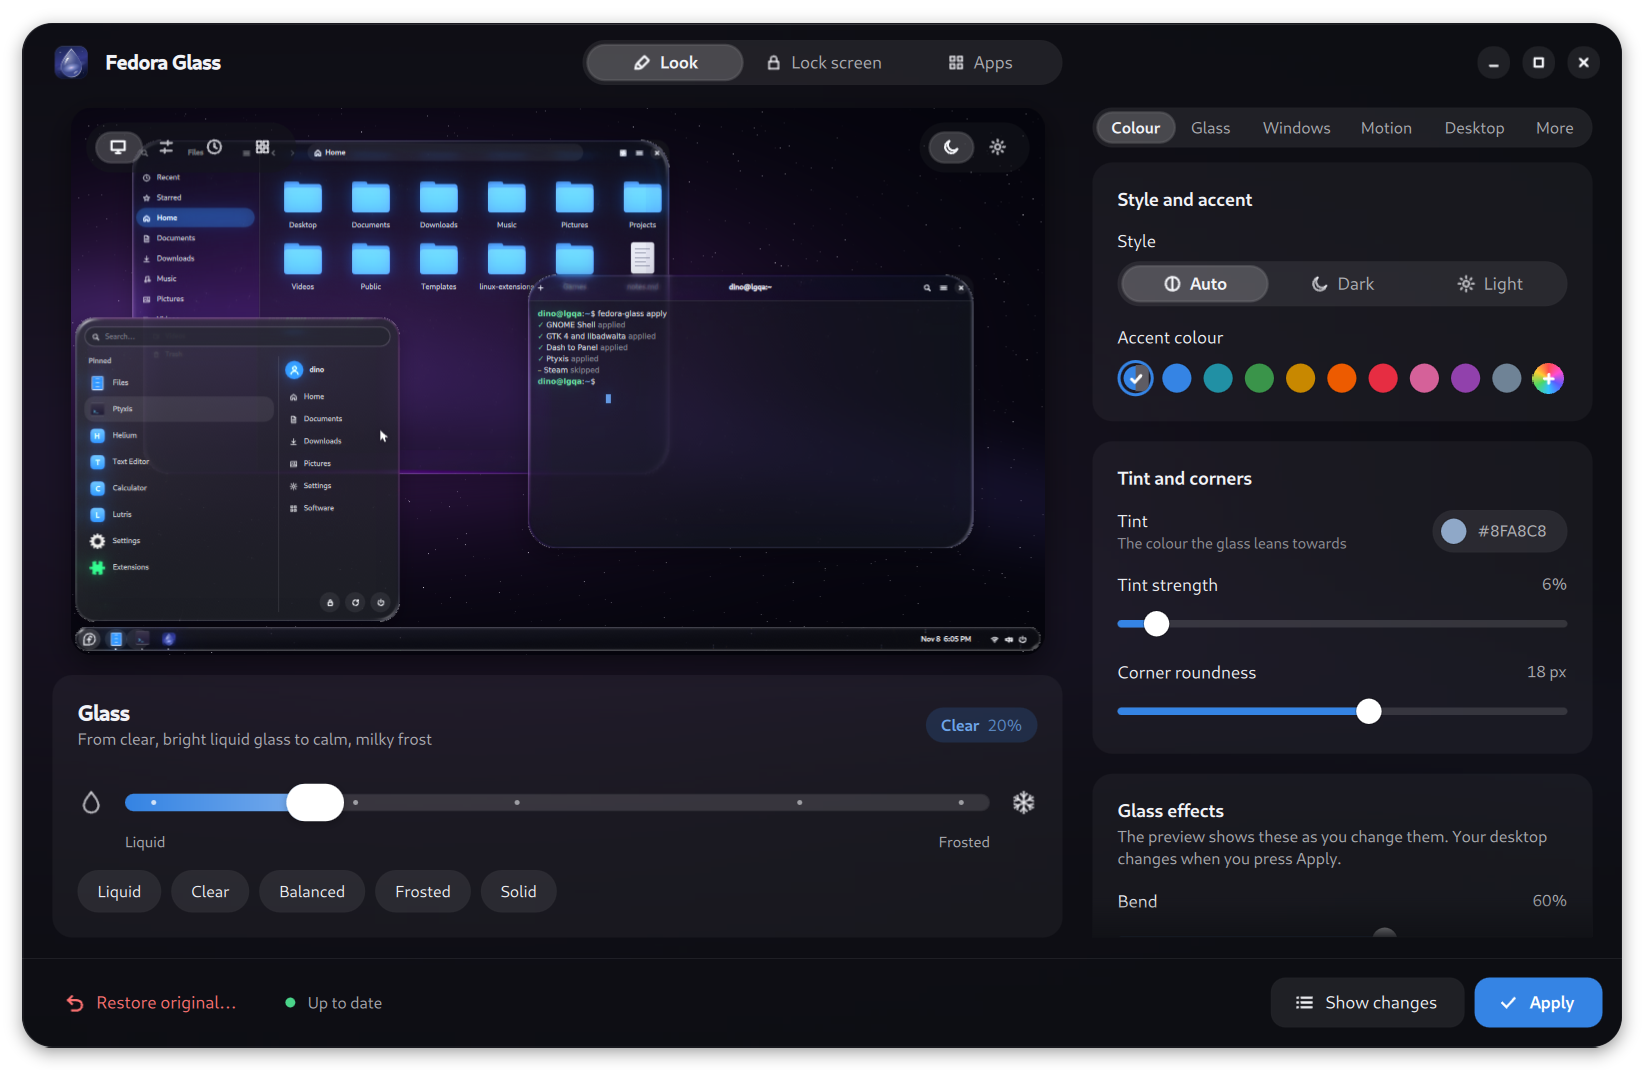
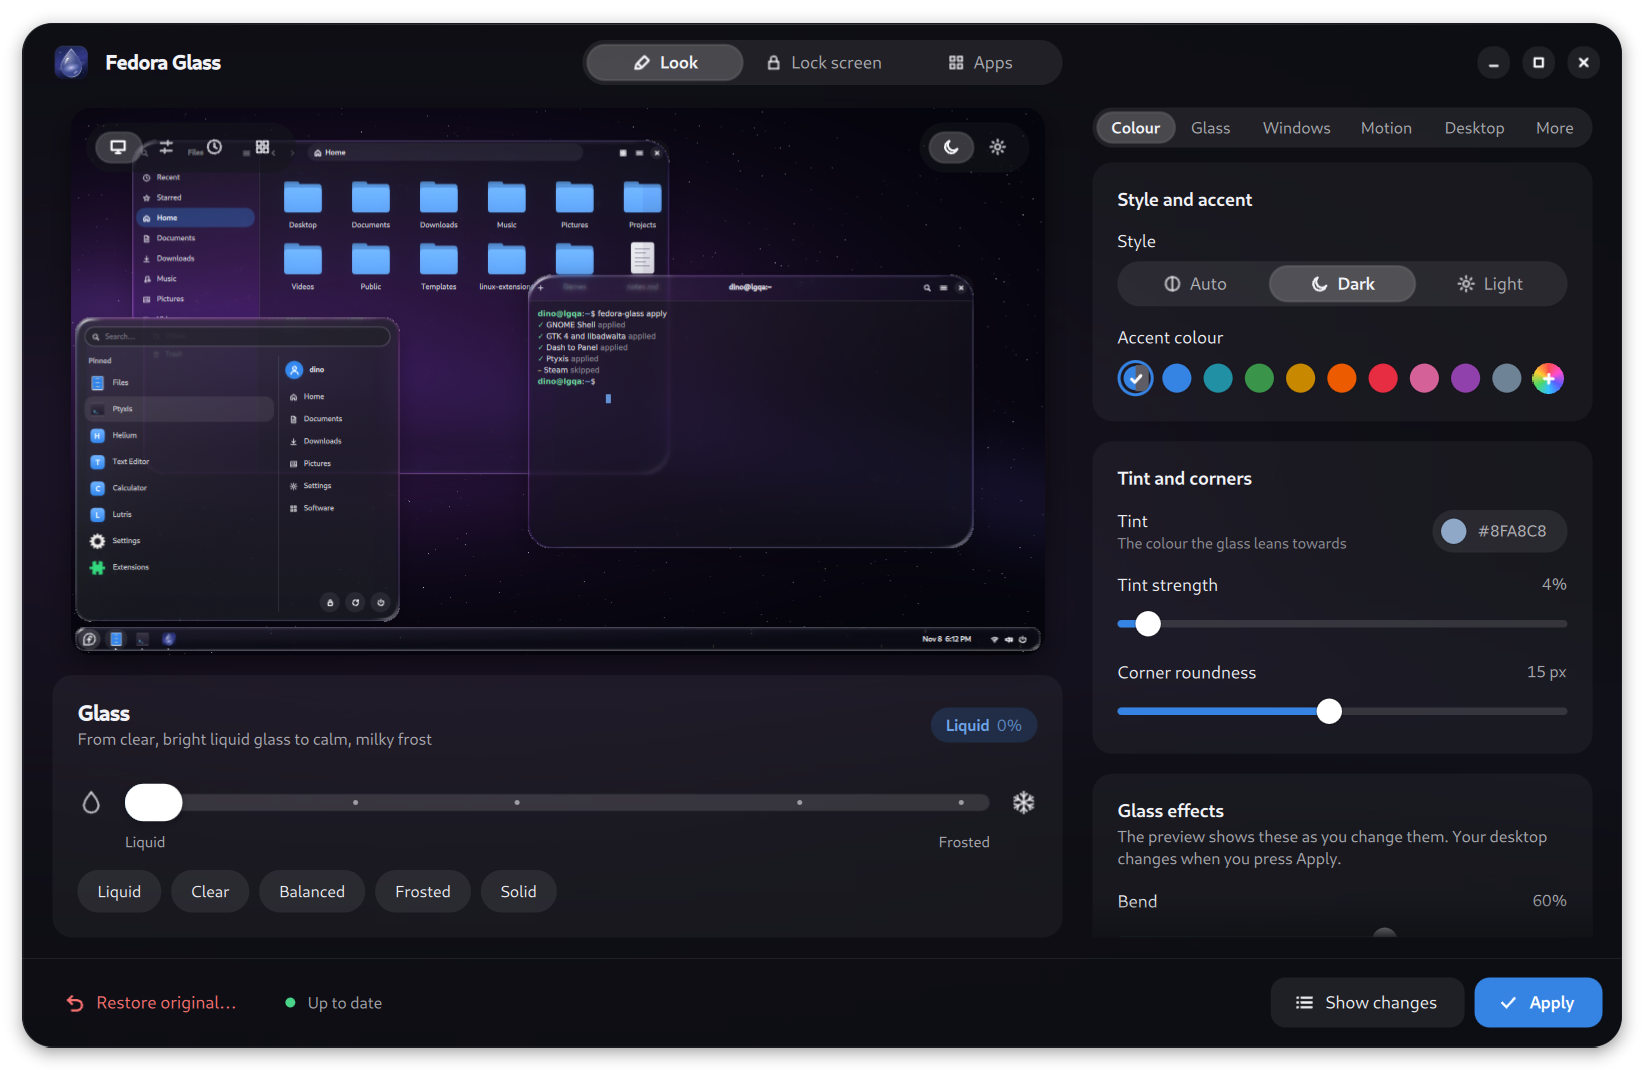
README: the glass follows real optics, close-up of the edge, Liquid look
Screenshots now use the Liquid look (2 % colour bleed, 4 % tint, 15 px corners)
with pinned apps in ArcMenu, and a close-up shows the glass edge bending the
starfield. The README explains the optics the shader models: refraction,
dispersion, Fresnel reflection and absorption.

diff --git a/README.md b/README.md
@@ -43,11 +43,21 @@ Terminal, Qt apps (through Kvantum), the lock screen and, if you opt in, the log
 
 ## How the glass works
 
-Each panel and menu sits on a live, blurred copy of what's behind it, seen through a slab of glass
-with a rounded edge. The shader follows real optics: light bends at the curved edge (refraction),
-splits into a faint rainbow (dispersion), reflects more at grazing angles (Fresnel), and picks up
-colour from the icons beneath it. Idle glass costs nothing, and **Reduce animation** turns the
-motion off.
+The glass is modelled on how real glass behaves, using the physics of light that optics textbooks
+describe, not a flat blur with a glow painted on. Each panel, menu and window sits on a live,
+blurred copy of what's behind it, seen through a slab of glass with a rounded edge:
+
+- **Refraction:** light bends where it enters the curved edge (Snell's law), so the rim magnifies
+  what's behind it while the flat middle stays true.
+- **Dispersion:** each colour bends by a slightly different amount, so the edge splits light into a
+  faint rainbow.
+- **Reflection:** the glass reflects about 4 % of light head-on and much more at grazing angles
+  (Fresnel), so the rim catches light the way a real pane does.
+- **Absorption:** light crossing more glass near the edge comes out a shade darker (Beer-Lambert).
+
+<p align="center"><img src="docs/screenshots/glass-edge.png" width="860" alt="Close-up: the rounded glass edge of ArcMenu bending the starfield behind it"></p>
+
+Idle glass costs nothing, and **Reduce animation** turns the motion off.
 
 The edge shape builds on Kyant's [AndroidLiquidGlass](https://github.com/Kyant0/AndroidLiquidGlass).
 
